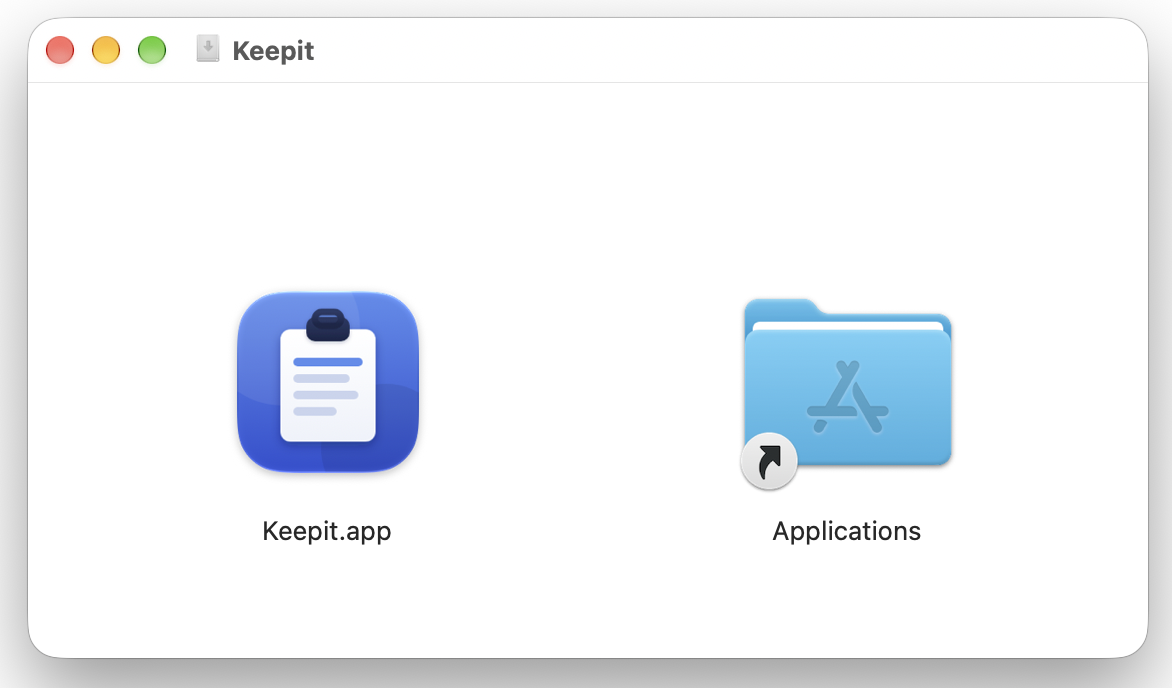
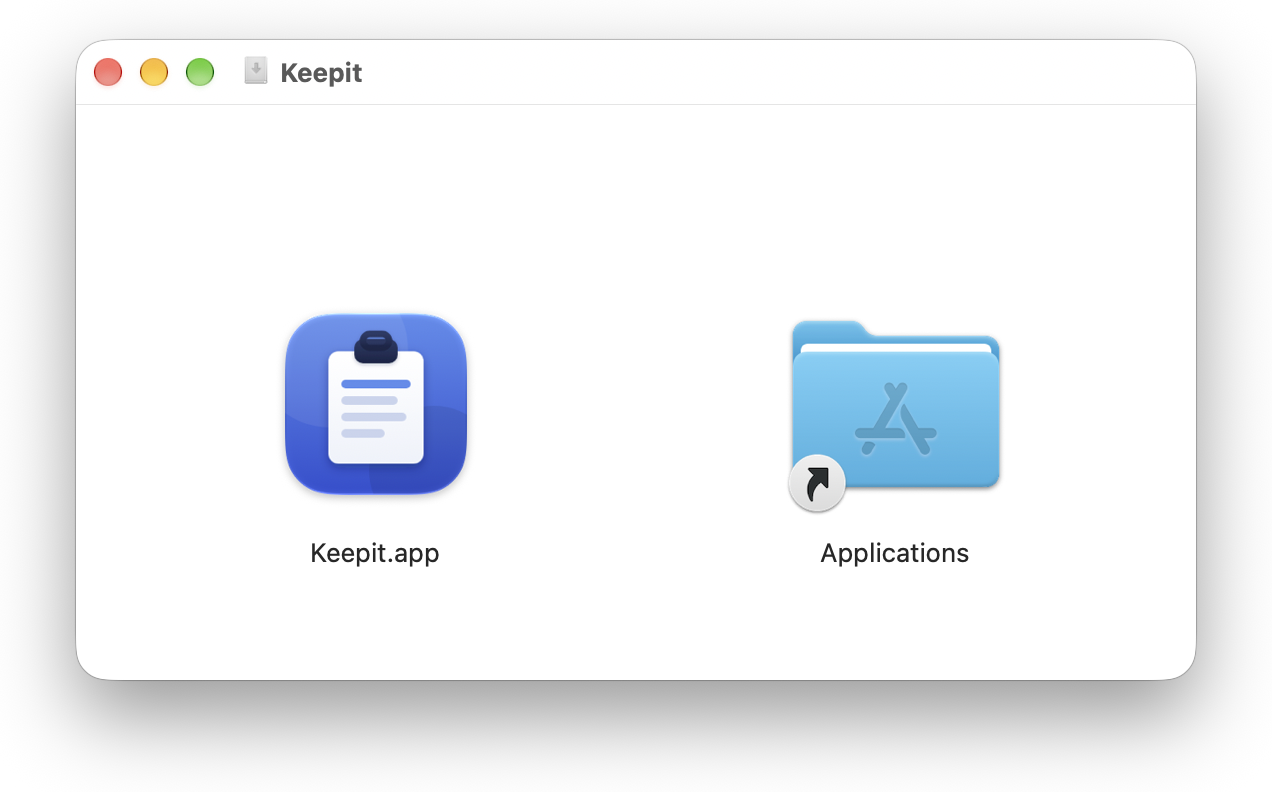
Guide: the DMG window and System Settings → Accessibility retaken as window shots; the normalizer takes the window bounds from the alpha channel when there is one
Claude-Session: https://claude.ai/code/session_018CvCqvTTYcjZs6rVg6ZZHt

diff --git a/docs/site/guide.html b/docs/site/guide.html
@@ -80,7 +80,7 @@ brew install --cask andrey-insarov/keepit/keepit
 <p><strong>DMG</strong> — download <code>Keepit-&lt;version&gt;.dmg</code> from the
 <a href="https://github.com/andrey-insarov/Keepit/releases/latest">latest release</a>, open it and drag Keepit
 into <em>Applications</em>.</p>
-<figure class="shot" style="max-width:586px"><a href="img/guide/dmg.png?v=7f545cfc" class="zoom" title="Open full size"><img src="img/guide/dmg.png?v=7f545cfc" alt="The DMG: drag Keepit to Applications" width="586" height="344" loading="lazy"></a><figcaption>The DMG: drag Keepit to Applications</figcaption></figure>
+<figure class="shot" style="max-width:636px"><a href="img/guide/dmg.png?v=a3bf55fd" class="zoom" title="Open full size"><img src="img/guide/dmg.png?v=a3bf55fd" alt="The DMG: drag Keepit to Applications" width="636" height="396" loading="lazy"></a><figcaption>The DMG: drag Keepit to Applications</figcaption></figure>
 <p>The first time you open the app, macOS confirms that it came from the Internet and was checked by
 Apple. Click <em>Open</em>.</p>
 <figure class="shot" style="max-width:286px"><a href="img/guide/gatekeeper.png?v=410c81dc" class="zoom" title="Open full size"><img src="img/guide/gatekeeper.png?v=410c81dc" alt="macOS Gatekeeper confirmation" width="286" height="274" loading="lazy"></a><figcaption>macOS Gatekeeper confirmation</figcaption></figure>
@@ -105,7 +105,7 @@ in; macOS allows that only for apps listed under <em>System Settings → Privacy
 Accessibility</em>. Click <em>Open System Settings</em> and switch Keepit on. Without it Keepit still records
 and copies, but you press ⌘V yourself.</p>
 <figure class="shot" style="max-width:316px"><a href="img/guide/accessibility-prompt.png?v=02e5af1e" class="zoom" title="Open full size"><img src="img/guide/accessibility-prompt.png?v=02e5af1e" alt="Keepit asks for the Accessibility permission" width="316" height="410" loading="lazy"></a><figcaption>Keepit asks for the Accessibility permission</figcaption></figure>
-<figure class="shot" style="max-width:492px"><a href="img/guide/accessibility-settings.png?v=cea1e62b" class="zoom" title="Open full size"><img src="img/guide/accessibility-settings.png?v=cea1e62b" alt="Keepit enabled under Privacy &amp; Security → Accessibility" width="492" height="373" loading="lazy"></a><figcaption>Keepit enabled under Privacy &amp; Security → Accessibility</figcaption></figure>
+<figure class="shot" style="max-width:816px"><a href="img/guide/accessibility-settings.png?v=fdf9f5be" class="zoom" title="Open full size"><img src="img/guide/accessibility-settings.png?v=fdf9f5be" alt="Keepit enabled under Privacy &amp; Security → Accessibility" width="816" height="546" loading="lazy"></a><figcaption>Keepit enabled under Privacy &amp; Security → Accessibility</figcaption></figure>
 <p>Keepit starts at login by default — <em>Settings → General</em> switches that off.</p>
 <hr />
 <h2 id="part-2-everyday-use">Part 2 — Everyday use</h2>

diff --git a/Scripts/normalize_screenshot.py b/Scripts/normalize_screenshot.py
@@ -9,12 +9,24 @@ def top_edge(L, x):
     if len(dark)==0: return None
     s=dark[0]; d=np.diff(col[s:s+40]); j=np.where(d>=8)[0]
     return s + (int(j[0])+1 if len(j) else 0)
+def opaque_box(src):
+    """A window shot from Shift-Cmd-4 + Space: the window is the fully opaque part, the shadow is translucent."""
+    im=Image.open(src)
+    if im.mode!='RGBA': return None
+    a=np.array(im)[:,:,3]
+    if a.min()==255: return None
+    ys,xs=np.where(a==255)
+    return (int(xs.min()),int(ys.min()),int(xs.max()),int(ys.max()))
 def normalize(src, dst):
-    r=analyze(src); assert r, src
-    x0,y0,x1,y1=r['win']
+    box=opaque_box(src)
+    if box: x0,y0,x1,y1=box
+    else:
+        r=analyze(src); assert r, src
+        x0,y0,x1,y1=r['win']
     im=flat(src); L=lum(np.array(im).astype(float))
-    tops=[t for t in (top_edge(L,x0+dx) for dx in (250,300,400,500,600)) if t is not None]
-    if tops: y0=int(np.median(tops))
+    if not box:
+        tops=[t for t in (top_edge(L,x0+dx) for dx in (250,300,400,500,600)) if t is not None]
+        if tops: y0=int(np.median(tops))
     W=x1-x0+1+M['L']+M['R']; H=y1-y0+1+M['T']+M['B']
     out=Image.new('RGB',(W,H),(255,255,255)); out.paste(im,(M['L']-x0, M['T']-y0)); out.save(dst, optimize=True)
     return (x1-x0+1,y1-y0+1)
